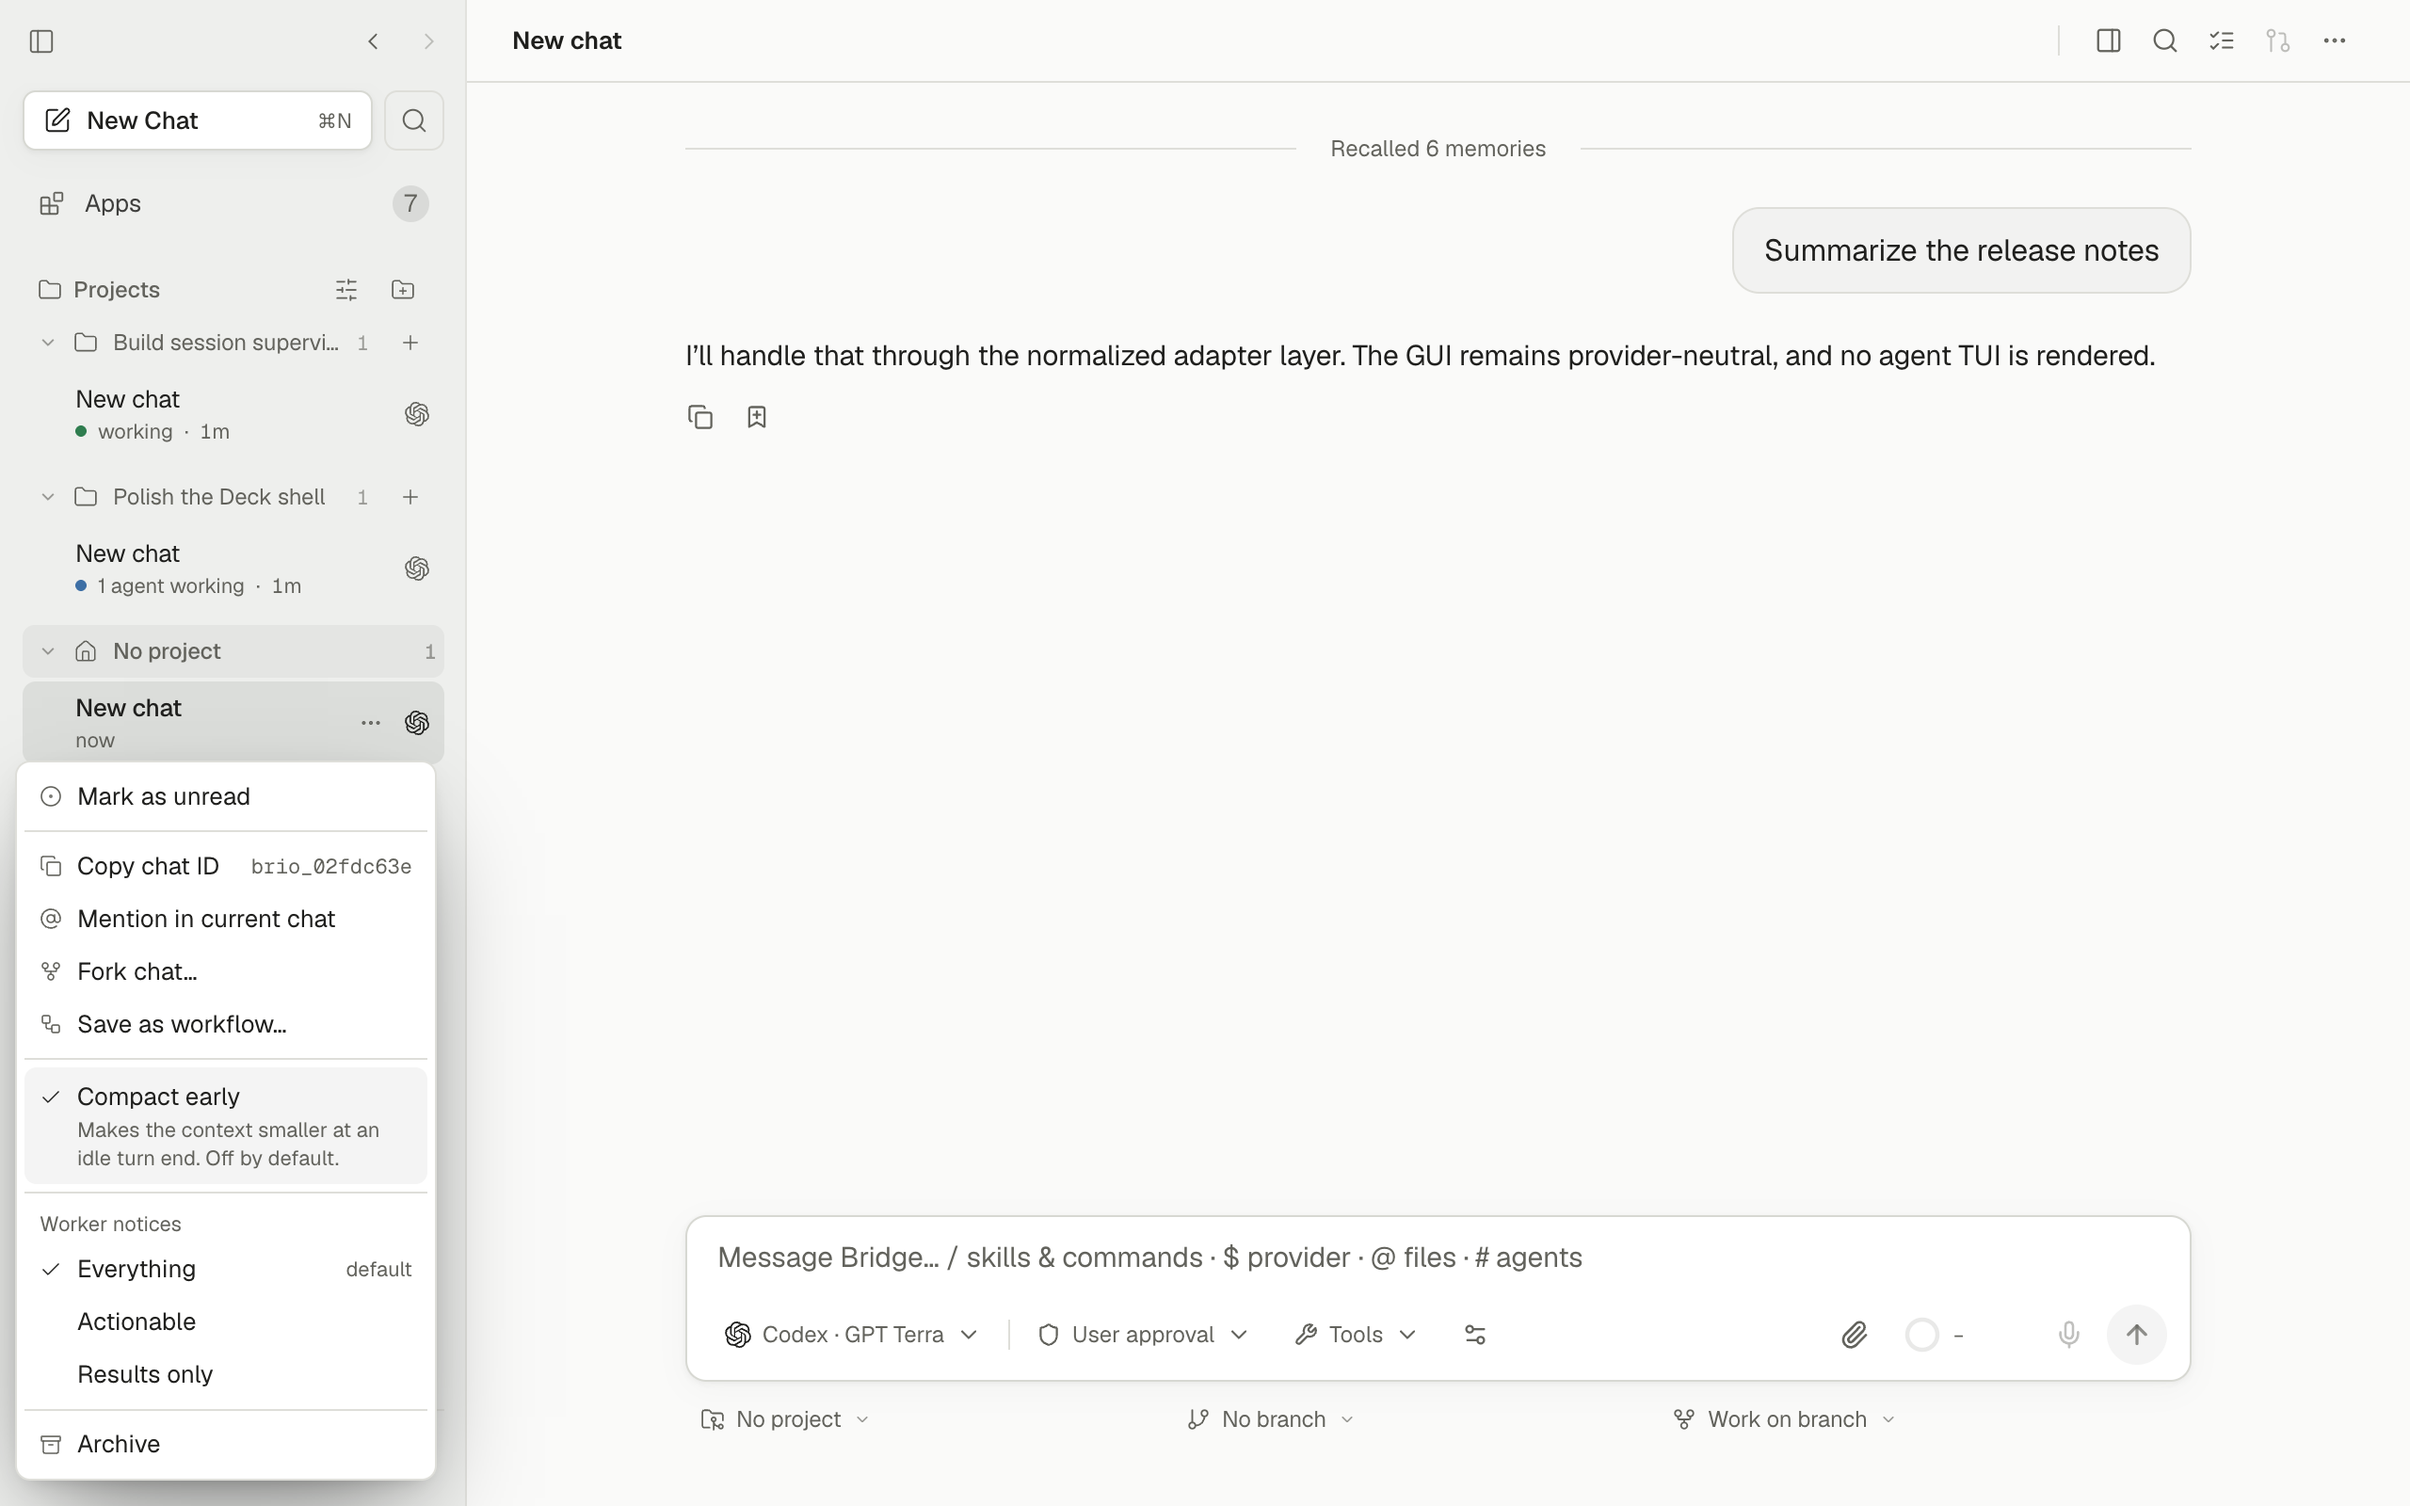
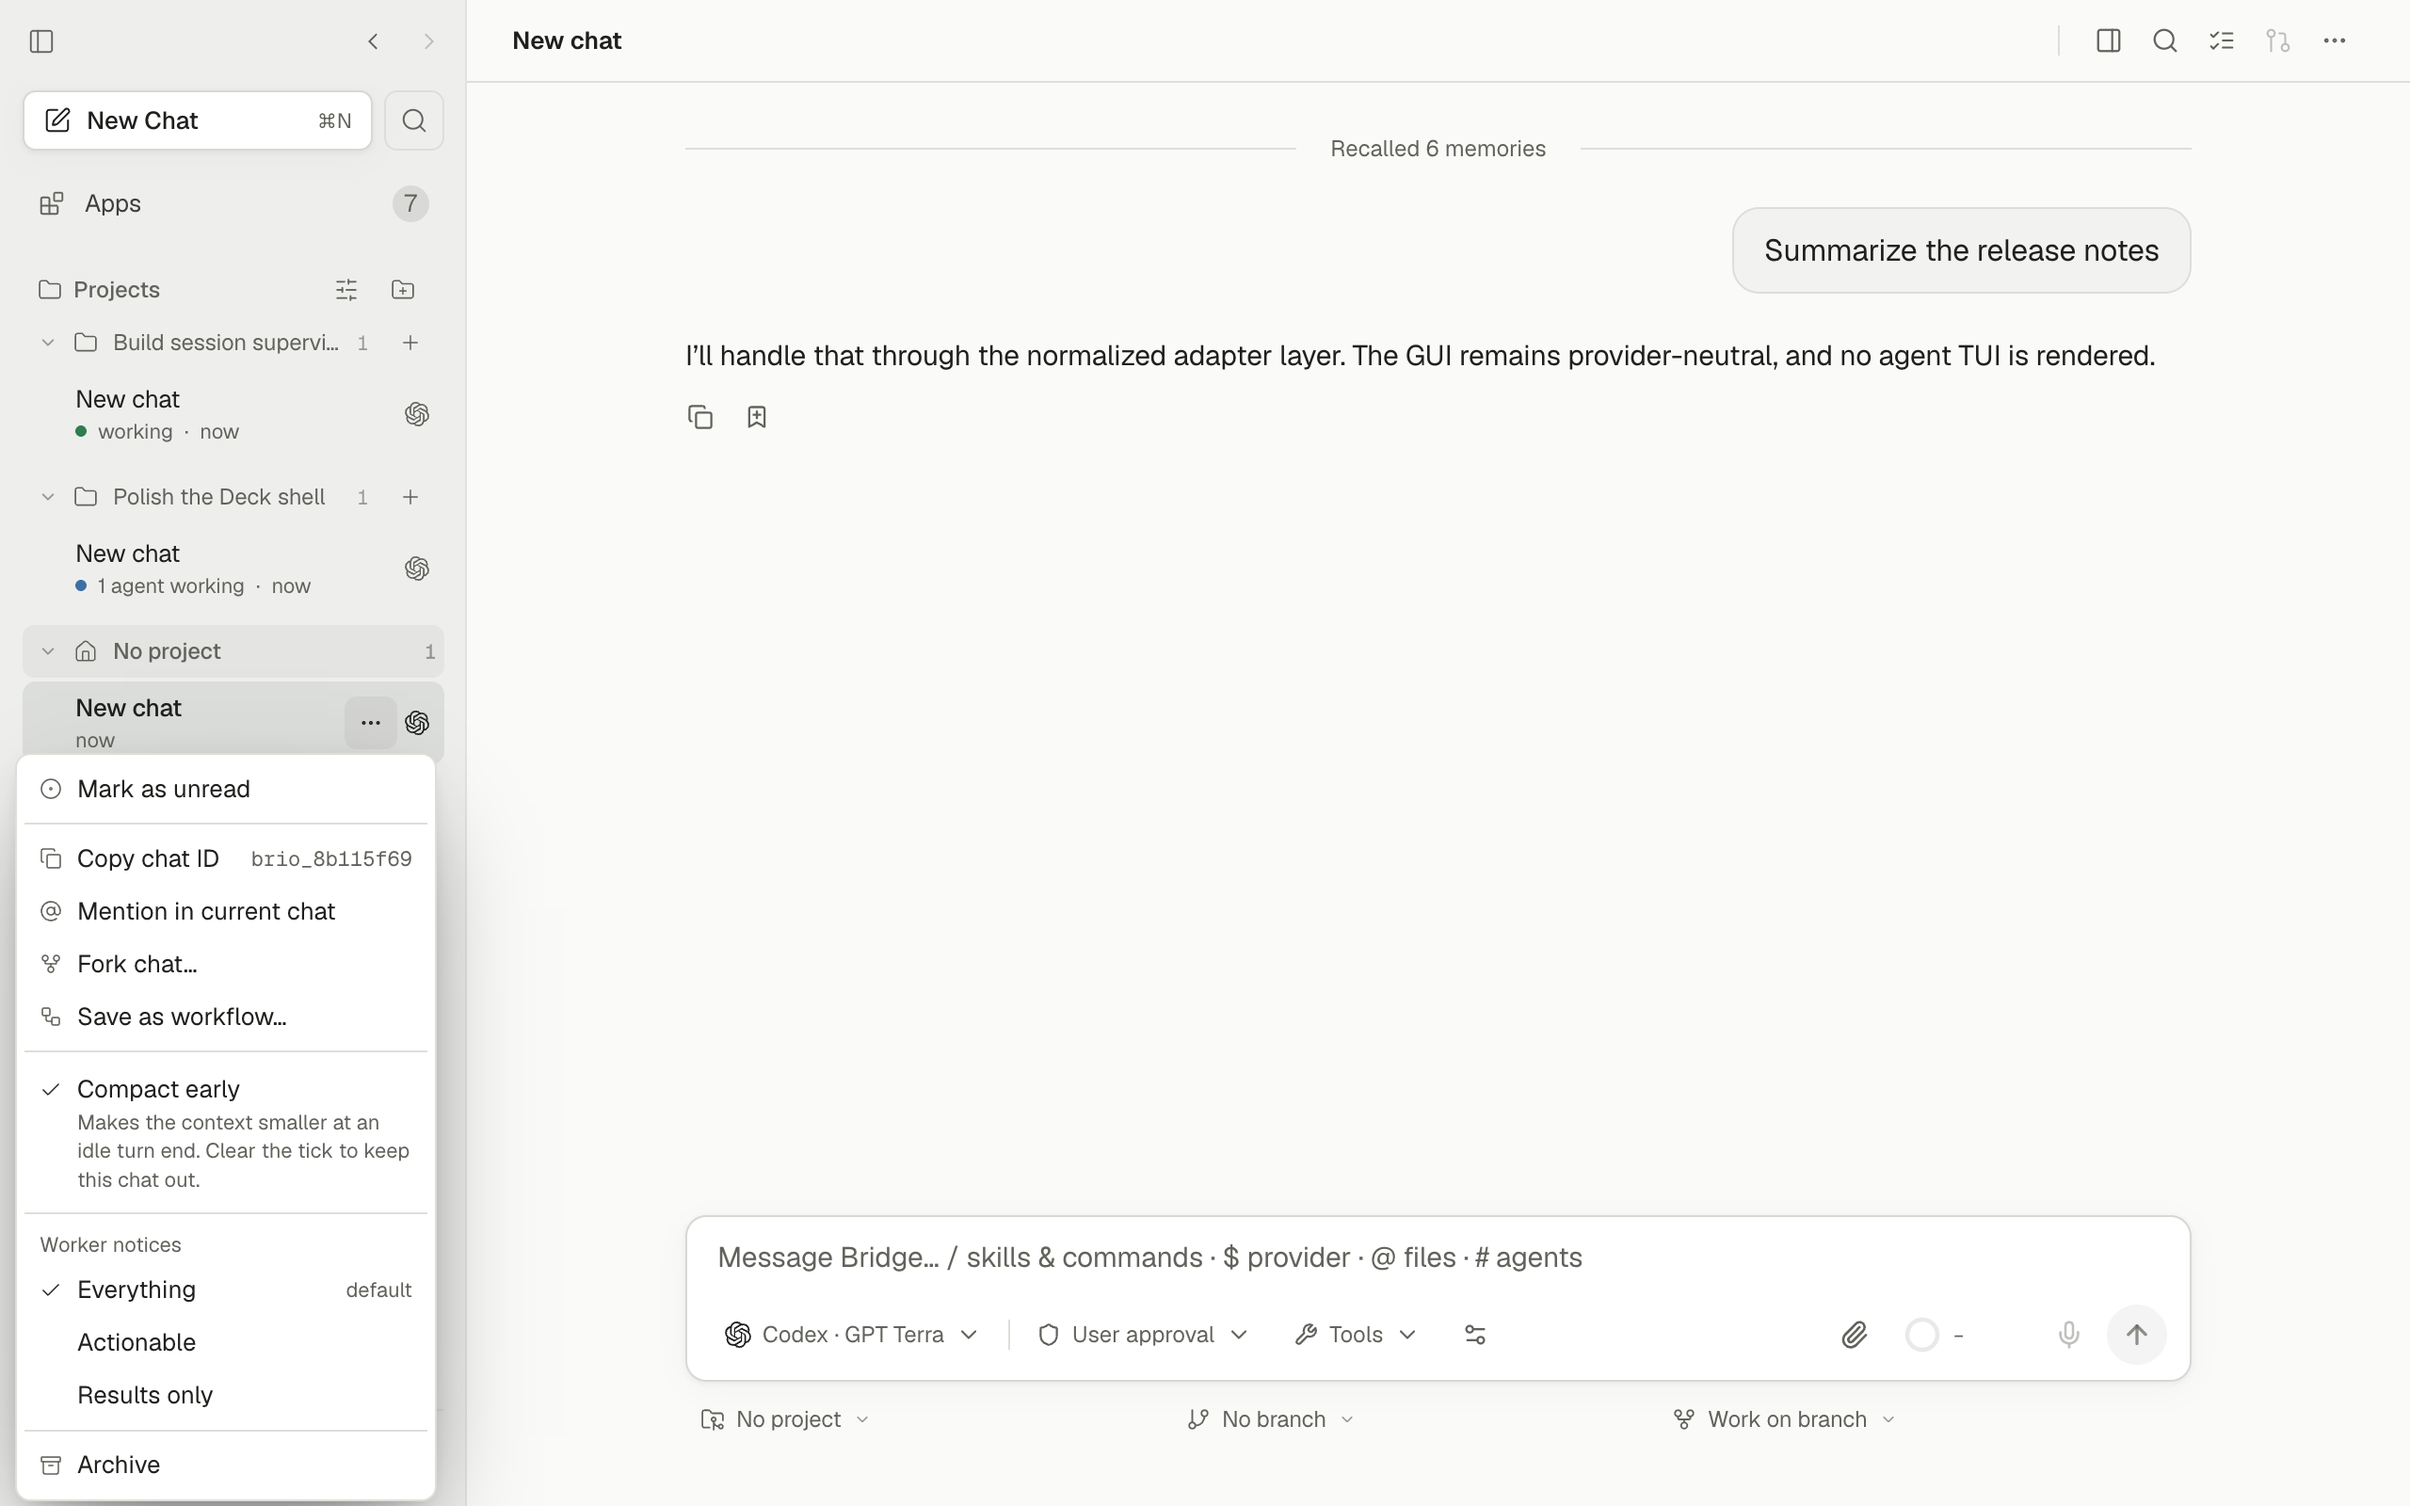
fix(ui): show a failed opt-out, correct the chat note and read the switch again after a reset

Changed region(s): [[0.0, 0.7188, 0.1875, 1.0], [0.0, 0.5, 0.1875, 0.6875]]

diff --git a/src/components/SettingsScreen.tsx b/src/components/SettingsScreen.tsx
@@ -73,6 +73,9 @@ export function SettingsScreen({ adapters, autoApprovals = [], initialSection = 
   const [openCodeDiscoveryError, setOpenCodeDiscoveryError] = useState<string>();
   const [busy, setBusy] = useState(false);
   const [saved, setSaved] = useState(false);
+  // Reset all deletes the early compaction switch too. That switch loads its
+  // own value, so each reset gives it a new key and it reads the value again.
+  const [resets, setResets] = useState(0);
   // One copy of the runtime list, read by both the Harnesses list and a single
   // harness's detail page, so an install never has to be reported twice.
   const managed = useManagedAgents(undefined, onHealthChange);
@@ -233,6 +236,7 @@ export function SettingsScreen({ adapters, autoApprovals = [], initialSection = 
     try {
       const [next, setup] = await Promise.all([bridgeApi.resetAllConfig(), bridgeApi.resetModelProfiles()]);
       acceptConfig(next); setAgentDrafts({}); setPresetDetailId(null); setHarnessDrafts({}); setHarnessDetailId(null);
+      setResets(count => count + 1);
       setModelSetup(setup); setProfiles(profileDraftsFromSetup(setup)); onModelSetupChange(setup); flashSaved();
     }
     catch (error) { onError(String(error)); } finally { setBusy(false); }
@@ -245,7 +249,7 @@ export function SettingsScreen({ adapters, autoApprovals = [], initialSection = 
       <SettingsRow label="Model preferences" description="Choose models for chats and background tasks. Start with Bridge's defaults." onOpen={() => navigate("models")} />
       <SettingsRow label="Agents" description="Your own agents, plus Bridge's built-in ones. Pick one when you start a new chat." onOpen={() => navigate("agents")} />
     </SettingsGroup>
-    <EarlyCompactionSetting />
+    <EarlyCompactionSetting key={resets} />
     <details className="text-ui"><summary className="cursor-pointer text-muted-foreground">Advanced</summary><div className="mt-3">
       <SettingsGroup>
         <SettingsRow label="Background tasks" description="Tasks running at once, retries, and how long Bridge waits for an agent." onOpen={() => navigate("workers")} />

diff --git a/src/components/BridgeSidebar.test.tsx b/src/components/BridgeSidebar.test.tsx
@@ -721,7 +721,8 @@ describe("BridgeSidebar chat menu early compaction", () => {
     expect(optOut()?.getAttribute("aria-checked")).toBe("true");
     expect(optOut()?.textContent).toContain("Compact early");
     expect(optOut()?.textContent).toContain("context smaller at an idle turn end");
-    expect(optOut()?.textContent).toContain("Off by default");
+    expect(optOut()?.textContent).toContain("Clear the tick to keep this chat out.");
+    expect(optOut()?.textContent, "the item shows only while the switch is on").not.toContain("Off by default");
 
     act(() => optOut()!.click()); await settle();
     expect(optOut()?.getAttribute("aria-checked")).toBe("false");
@@ -729,6 +730,27 @@ describe("BridgeSidebar chat menu early compaction", () => {
     act(() => optOut()!.click()); await settle();
     expect(optOut()?.getAttribute("aria-checked")).toBe("true");
     expect((await bridgeApi.earlyCompactionSettings(direct.id)).sessionOptedOut).toBe(false);
+    await closeMenu();
+  });
+
+  it("shows a refused opt-out in the menu and keeps the last value", async () => {
+    const direct = await mockChat("codex", "Refused chat");
+    await bridgeApi.saveEarlyCompactionSettings(null, true);
+    await openMenu(direct);
+    const alert = () => document.body.querySelector('[role="menu"] [role="alert"]');
+    const save = vi.spyOn(bridgeApi, "saveEarlyCompactionSettings").mockRejectedValueOnce(new Error("the store is read-only"));
+    act(() => optOut()!.click()); await settle();
+    expect(save).toHaveBeenCalledWith(direct.id, false);
+    expect(alert()?.textContent).toBe("the store is read-only");
+    expect(alert()?.className).toContain("text-destructive");
+    expect(optOut()?.getAttribute("aria-checked"), "a refused save keeps the confirmed value").toBe("true");
+
+    // A save that works clears the error.
+    act(() => optOut()!.click()); await settle();
+    expect(alert()).toBeNull();
+    expect(optOut()?.getAttribute("aria-checked")).toBe("false");
+    save.mockRestore();
+    await bridgeApi.saveEarlyCompactionSettings(direct.id, null);
     await closeMenu();
   });
 

diff --git a/src/components/SettingsScreen.test.tsx b/src/components/SettingsScreen.test.tsx
@@ -3,6 +3,7 @@ import { act } from "react";
 import { createRoot, type Root } from "react-dom/client";
 import { renderToStaticMarkup } from "react-dom/server";
 import { afterEach, beforeEach, describe, expect, it } from "vitest";
+import { bridgeApi } from "../api";
 import { SettingsScreen } from "./SettingsScreen";
 import { ALL_SECTIONS, PRIMARY_SECTIONS, SECTION_LABELS } from "./settings/sections";
 
@@ -302,6 +303,18 @@ describe("SettingsScreen", () => {
       expect(container.textContent).toContain("Keep them");
       await open("Keep them");
       expect(container.textContent).not.toContain("removes your agents");
+    });
+
+    it("reads the early compaction switch again after Reset all", async () => {
+      await bridgeApi.saveEarlyCompactionSettings(null, true);
+      await render({ initialSection: "codingAgents" });
+      const toggle = () => container.querySelector<HTMLButtonElement>('[role="switch"][aria-label="Early compaction"]');
+      expect(toggle()?.getAttribute("aria-checked")).toBe("true");
+      await open("Reset all settings");
+      await open("Reset everything");
+      await act(async () => { await flush(); });
+      expect((await bridgeApi.earlyCompactionSettings()).globalEnabled).toBe(false);
+      expect(toggle()?.getAttribute("aria-checked"), "the switch still shows the value from before the reset").toBe("false");
     });
   });
 });

diff --git a/src/earlyCompaction.ts b/src/earlyCompaction.ts
@@ -2,9 +2,9 @@ import { useCallback, useEffect, useState } from "react";
 import { bridgeApi } from "./api";
 import type { EarlyCompactionSettings } from "./types";
 
-/** The text of both controls: what the feature does and its default. */
+/** The text of both controls. The chat item shows only while the global switch is on, so its note names no default. */
 export const EARLY_COMPACTION_DESCRIPTION = "When a Claude or Codex chat ends a turn and stays idle, Bridge asks the agent to make its context smaller. Off by default.";
-export const EARLY_COMPACTION_CHAT_NOTE = "Makes the context smaller at an idle turn end. Off by default.";
+export const EARLY_COMPACTION_CHAT_NOTE = "Makes the context smaller at an idle turn end. Clear the tick to keep this chat out.";
 
 /** `sessionId` set: the switch as that chat sees it. Unset: the global switch only. */
 export function useEarlyCompaction(sessionId?: string): {

diff --git a/src/components/BridgeSidebar.tsx b/src/components/BridgeSidebar.tsx
@@ -343,7 +343,7 @@ function ChatRowMenu({
  * The host decides which chat the feature covers, so the row tests no harness.
  */
 function ChatEarlyCompaction({ chatId }: { chatId: string }) {
-  const { view, busy, set } = useEarlyCompaction(chatId);
+  const { view, error, busy, set } = useEarlyCompaction(chatId);
   if (!view?.globalEnabled || !view.sessionEligible) return null;
   const on = view.enabled === true;
   return (
@@ -363,6 +363,7 @@ function ChatEarlyCompaction({ chatId }: { chatId: string }) {
           <span className="block text-[11px] leading-snug text-muted-foreground">{EARLY_COMPACTION_CHAT_NOTE}</span>
         </span>
       </button>
+      {error && <p role="alert" className="pb-1 pl-7 pr-2 text-[11px] leading-snug text-destructive">{error}</p>}
     </>
   );
 }
